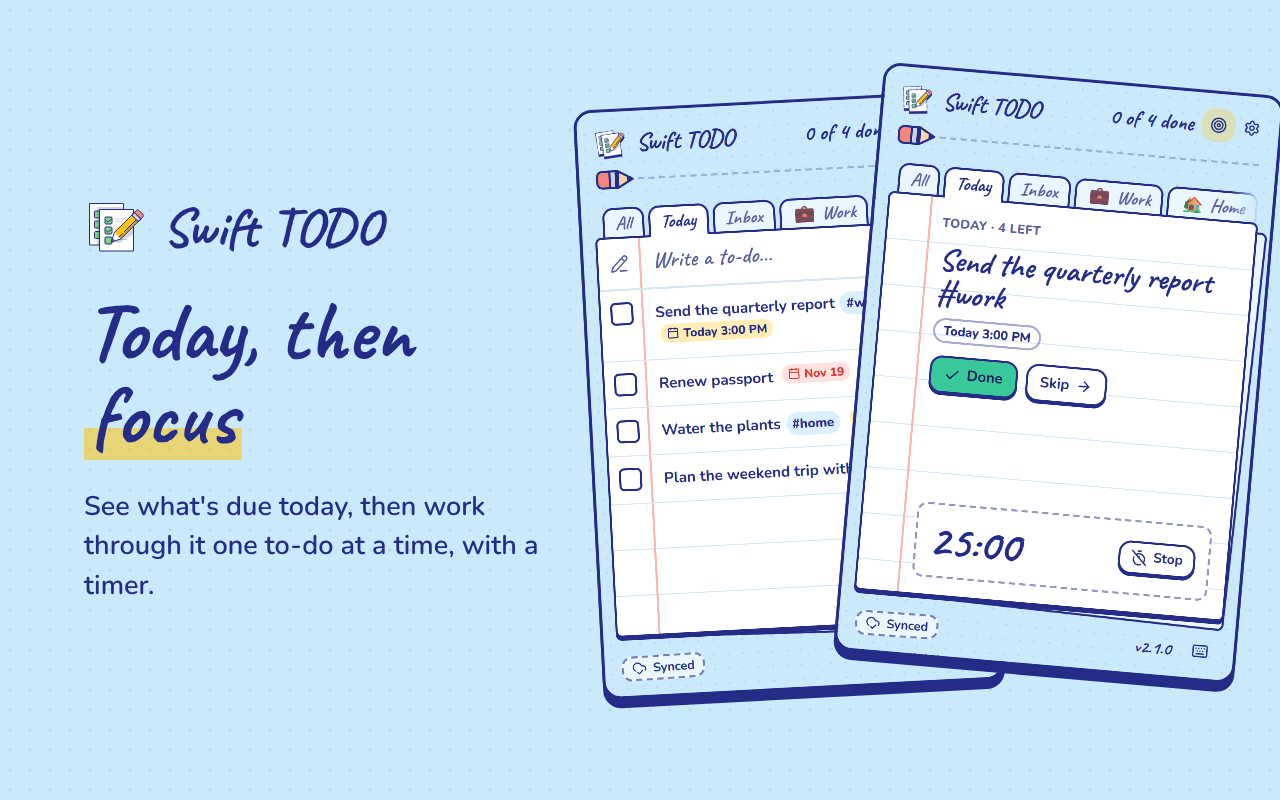
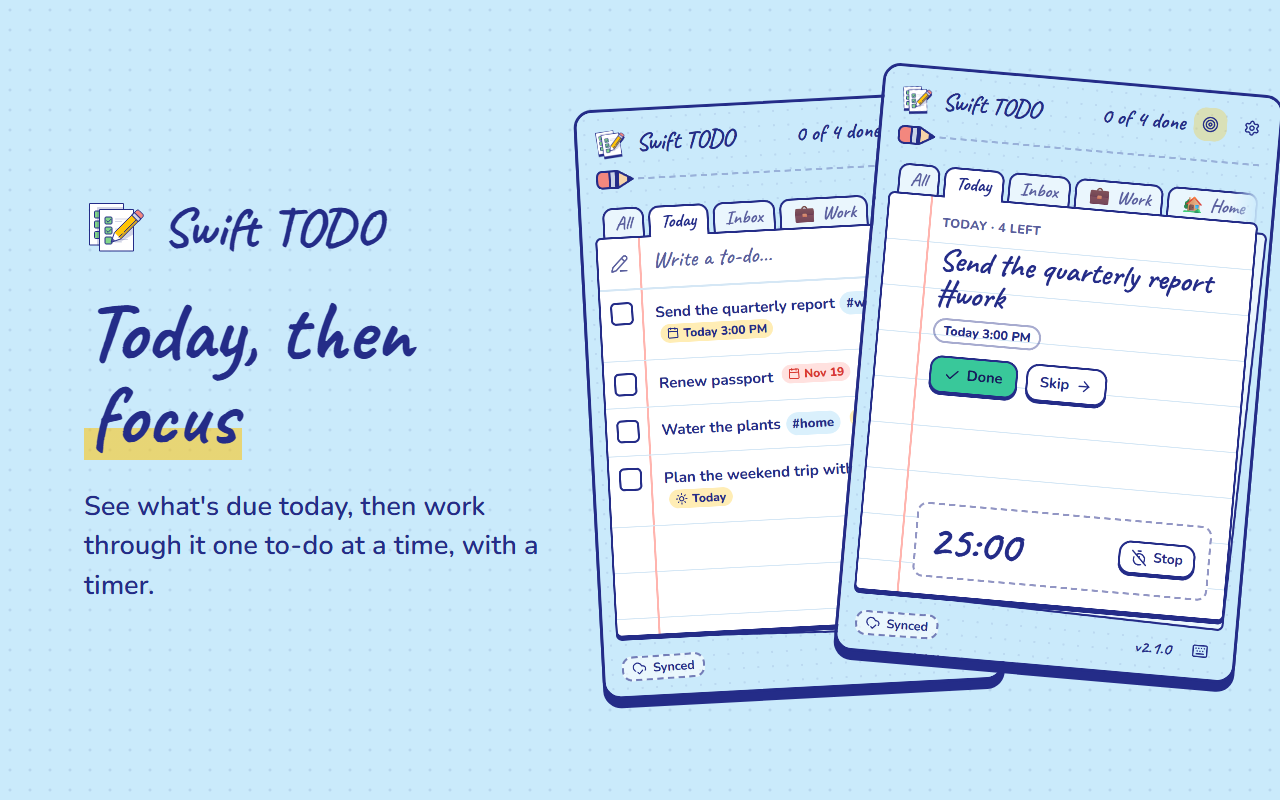
docs: retake the showcase and store images at a fixed 10 AM, with the new Today chip

diff --git a/tests/showcase/showcase.spec.ts b/tests/showcase/showcase.spec.ts
@@ -87,6 +87,15 @@ function rowStarting(page: Page, start: string) {
   return page.getByRole("group", { name: new RegExp(`^${start}`) });
 }
 
+// The popup's clock reads 10 AM today, so the shots look the same whenever they're
+// taken: "Today 3:00 PM" stays ahead instead of turning overdue in the afternoon.
+test.beforeEach(async ({ context }) => {
+  const morning = new Date();
+
+  morning.setHours(10, 0, 0, 0);
+  await context.clock.setFixedTime(morning);
+});
+
 test.describe("showcase", () => {
   test.beforeEach(async ({ seed }) => {
     await seed({ sync: sampleData() });
